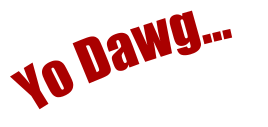
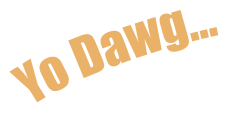
Update yo-dawg graphic

Changed region(s): [[0.25, 0.0756, 0.8889, 0.6555], [0.0278, 0.4538, 0.2778, 0.8571]]

diff --git a/index.html b/index.html
@@ -541,7 +541,7 @@
                 <i class="fa-li fa fa-repeat"></i>
                 <span>Organic and distributed bots</strong></span>
             </li>
-            <li >
+            <li>
                 <i class="fa-li fa fa-check-circle-o"></i>
                 <span>Self validating bots</span>
             </li>
@@ -600,6 +600,7 @@
 
     <section>
         <section>
+            <!-- TODO: Collision detection and avoidance -->
             <p class="reasons">
                 <i class="fa fa-grav"></i>
                 <span>Self aware bots</span>
